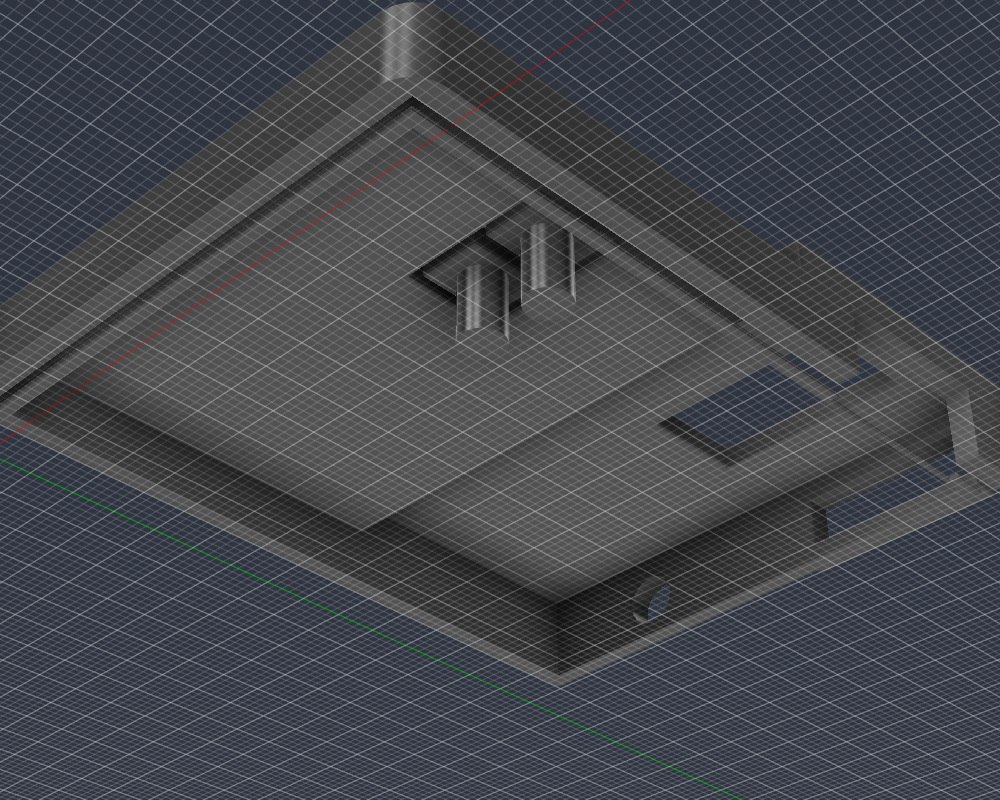
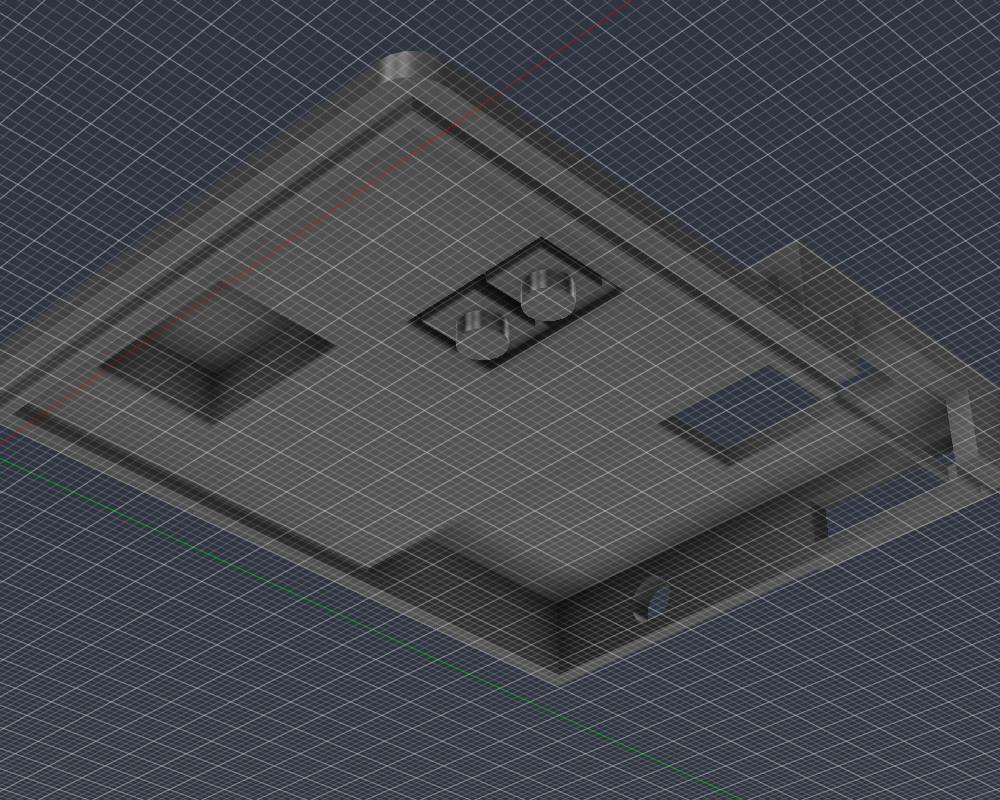
fix(fusion): 修好止口（两半其实扣不上）、凸起从 7.5mm 降到 2.0mm
用户反馈：
  "你把他开孔到Tray上面了，但是两边没完全对齐" + "按钮的那个圆柱突起是不是有点太高了"

# 1) 止口整圈是断的（真 bug，比"没对齐"更严重）

join_rect 的 Z 写成 SEAM-TONGUE_D .. SEAM-1.0 = 4.5..5.0，而前盖本体从 Z=6 起
—— 中间差 1mm，join 变成**无操作**，那圈舌头根本没长出来。
证据就在日志里："止口" 那一步体积 20.222 -> 20.222 完全不变。

改成 join 到 SEAM+0.2（搭进本体）后：17.758 -> 18.193（+0.435 cm3 = 舌头体积），
止口这才真的存在，两半才能扣上。

# 2) 按键凸起过高：根因是低区顶面被 DC 座顶到 12mm

原来为了躲 DC-005（约 12mm 高）把整个低区顶面抬到 12.0，于是凸起要伸 7.5mm 才够到
Z~4.4 的按键 —— 又高又容易弯。

正解：**顶面降下来，只在 DC 座正上方局部加高**。

    COVER_LO_Z    12.0 -> 6.4    （只需盖过 Pico 5.1 / PDC004 5.5）
    COVER_LO_TOP  14.5 -> 8.9
    BUMP_H         7.5 -> 2.0    （顶面 6.4 - 按键 4.4）
    新增 DC 局部凸台：X 10..31, Y 3..19，内腔到 Z=13，外表面到 Z=15

前盖外廓因此从 66x86x13.5 变成 66x86x13.6，但低区薄了一大截；
渲染里那个方台就是罩 DC 座的接口仓。

# 验证

    前盖单实体 bbox  Z 4.4 .. 18.0  （4.4=凸起下沿，18=高区顶面）
    间隙检查 13 项：12 项 OK，唯一越界的 GY-BMP280(0.62mm) 由右侧壁窗口让开
    DC-005 顶部 12.0 <= 局部凸台 13.0

# 交付

    MeshCase_Tray.stl   19 KB   22.516 cm3 / 27.9 g
    MeshCase_Cover.stl  35 KB   16.907 cm3 / 21.0 g

diff --git a/fusion/meshtastic-station/fit_check.py b/fusion/meshtastic-station/fit_check.py
@@ -9,7 +9,8 @@
 
 外壳内腔（与 enclosure.py 的参数一致）
     托盘   X -0.25..60.25   Y -0.25..80.25   Z -11.0 .. 6.0
-    前盖低区（Y<48）                          Z  6.0 .. 12.0
+    前盖低区（Y<48）                          Z  6.0 .. 6.4
+    DC5521 局部凸台内腔（X 11..30, Y 4..18）   Z  6.0 .. 13.0
     前盖高区（Y>=48）                         Z  6.0 .. 15.5
 """
 
@@ -17,7 +18,7 @@ BOARD_W, BOARD_D, BOARD_T = 60.0, 80.0, 1.6
 FIT = 0.25
 TRAY_FLOOR_Z = -11.0
 SEAM = 6.0
-LO_Z = 12.0
+LO_Z = 6.4          # 低区顶面：只盖过 Pico(5.1)/PDC004(5.5)
 HI_Z = 15.5
 STEP_Y = 48.0
 
@@ -74,7 +75,12 @@ def main():
             z_ok = z0 >= CAV["tray_z"][0]
             z_head = "托盘底 %.1f (需 <= %.1f)" % (z0, CAV["tray_z"][0])
         else:                            # 正面元件
-            ceil = HI_Z if y0 >= STEP_Y - 1.0 else LO_Z
+            if name.startswith("DC-005"):
+                ceil = 13.0          # DC 座正上方有局部凸台
+            elif y0 >= STEP_Y - 1.0:
+                ceil = HI_Z
+            else:
+                ceil = LO_Z
             z_ok = z1 <= ceil
             z_head = "顶面 %.1f (可用 %.1f)" % (z1, ceil)
         flags = []
